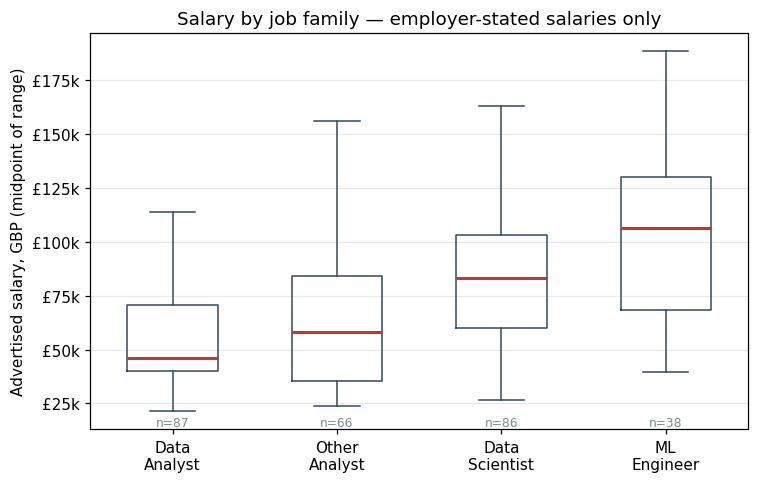
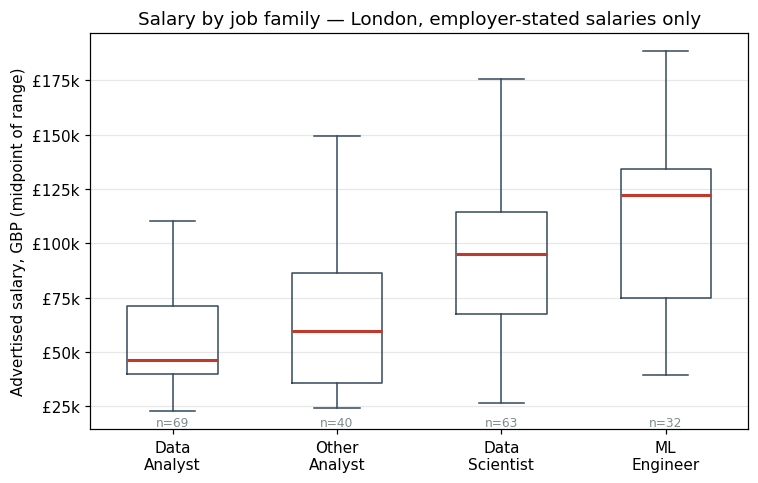
Restrict salary analysis to London; document regional sampling skew

diff --git a/docs/decisions.md b/docs/decisions.md
@@ -289,3 +289,30 @@ level" — a claim resting on cells of n=9 to n=25, and one the chart could
 not support for ML engineering at all, where the graduate bar is absent.
 Titles state what is plotted and carry n; the caveats live in text that
 has room for them.
+## 2026-08-14 (later) — Salary figures restricted to London
+
+The headline medians above are inflated by sample composition, not by the
+job families themselves. For data scientist roles, `salary_min` alone has
+a median of £76.5k — high for the UK — and the reason is visible in the
+breakdown: 73% of those postings are London, and senior plus lead account
+for 42% of them against 15% graduate.
+
+The skew is structural. London returns far more postings per keyword than
+any other region (2,316 versus 160 for "data scientist" in Manchester),
+and the 250-record page cap only ever binds in London, so a fixed number
+of keywords across five regions cannot produce a nationally balanced
+sample.
+
+London share also varies by family — 84% for ML engineering against 61%
+for the other-analyst group — so pooling regions distorts between-family
+comparisons too, not just absolute levels.
+
+**All salary figures are therefore restricted to London** (237 of 396
+stated salaries). Medians at graduate and senior level are unchanged by
+this restriction — data analyst £40k/£70k, data scientist £35k/£95k,
+other analyst £34k/£65k — so the earlier finding stands; only the stated
+scope changes. Sample sizes shrink (data scientist graduate n=13 → 9),
+which does not alter how much weight those cells can carry: direction
+credible, magnitude not.
+
+Salary claims in the README will say London, not the UK.
